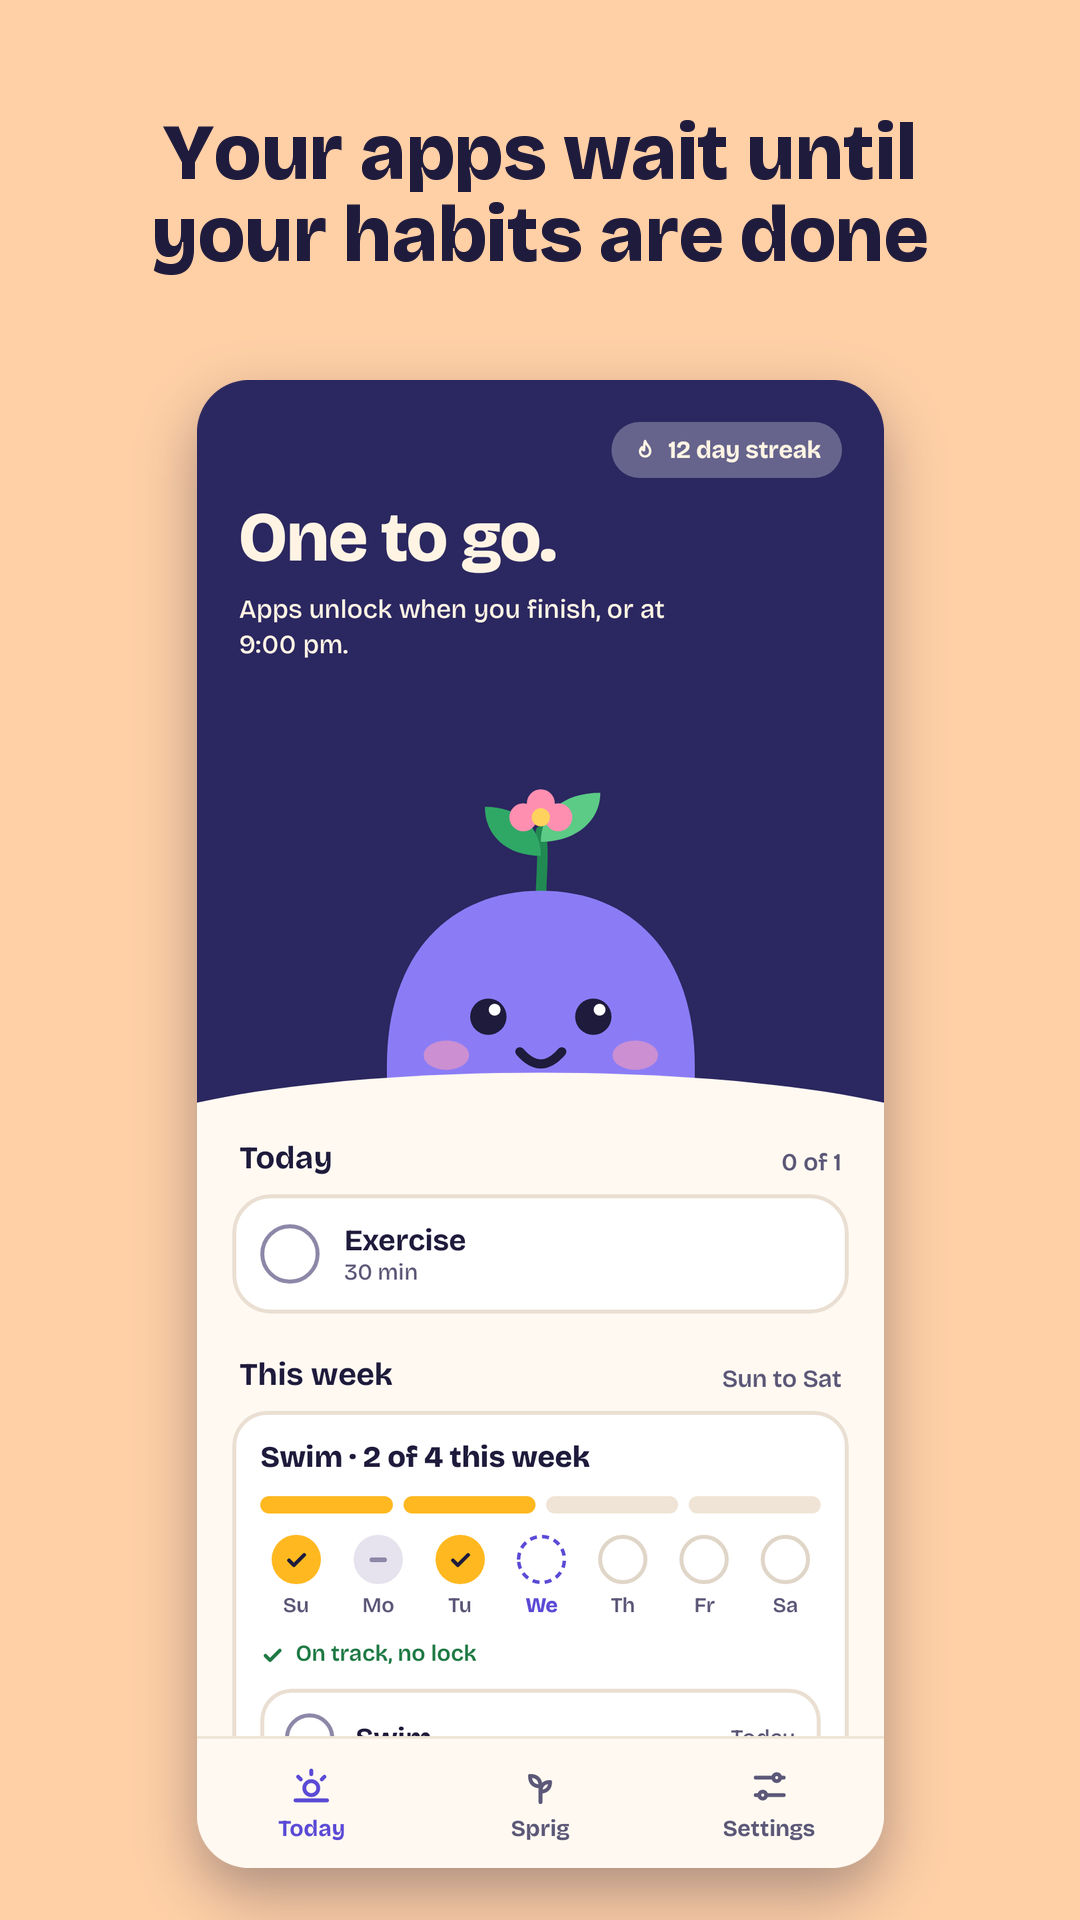
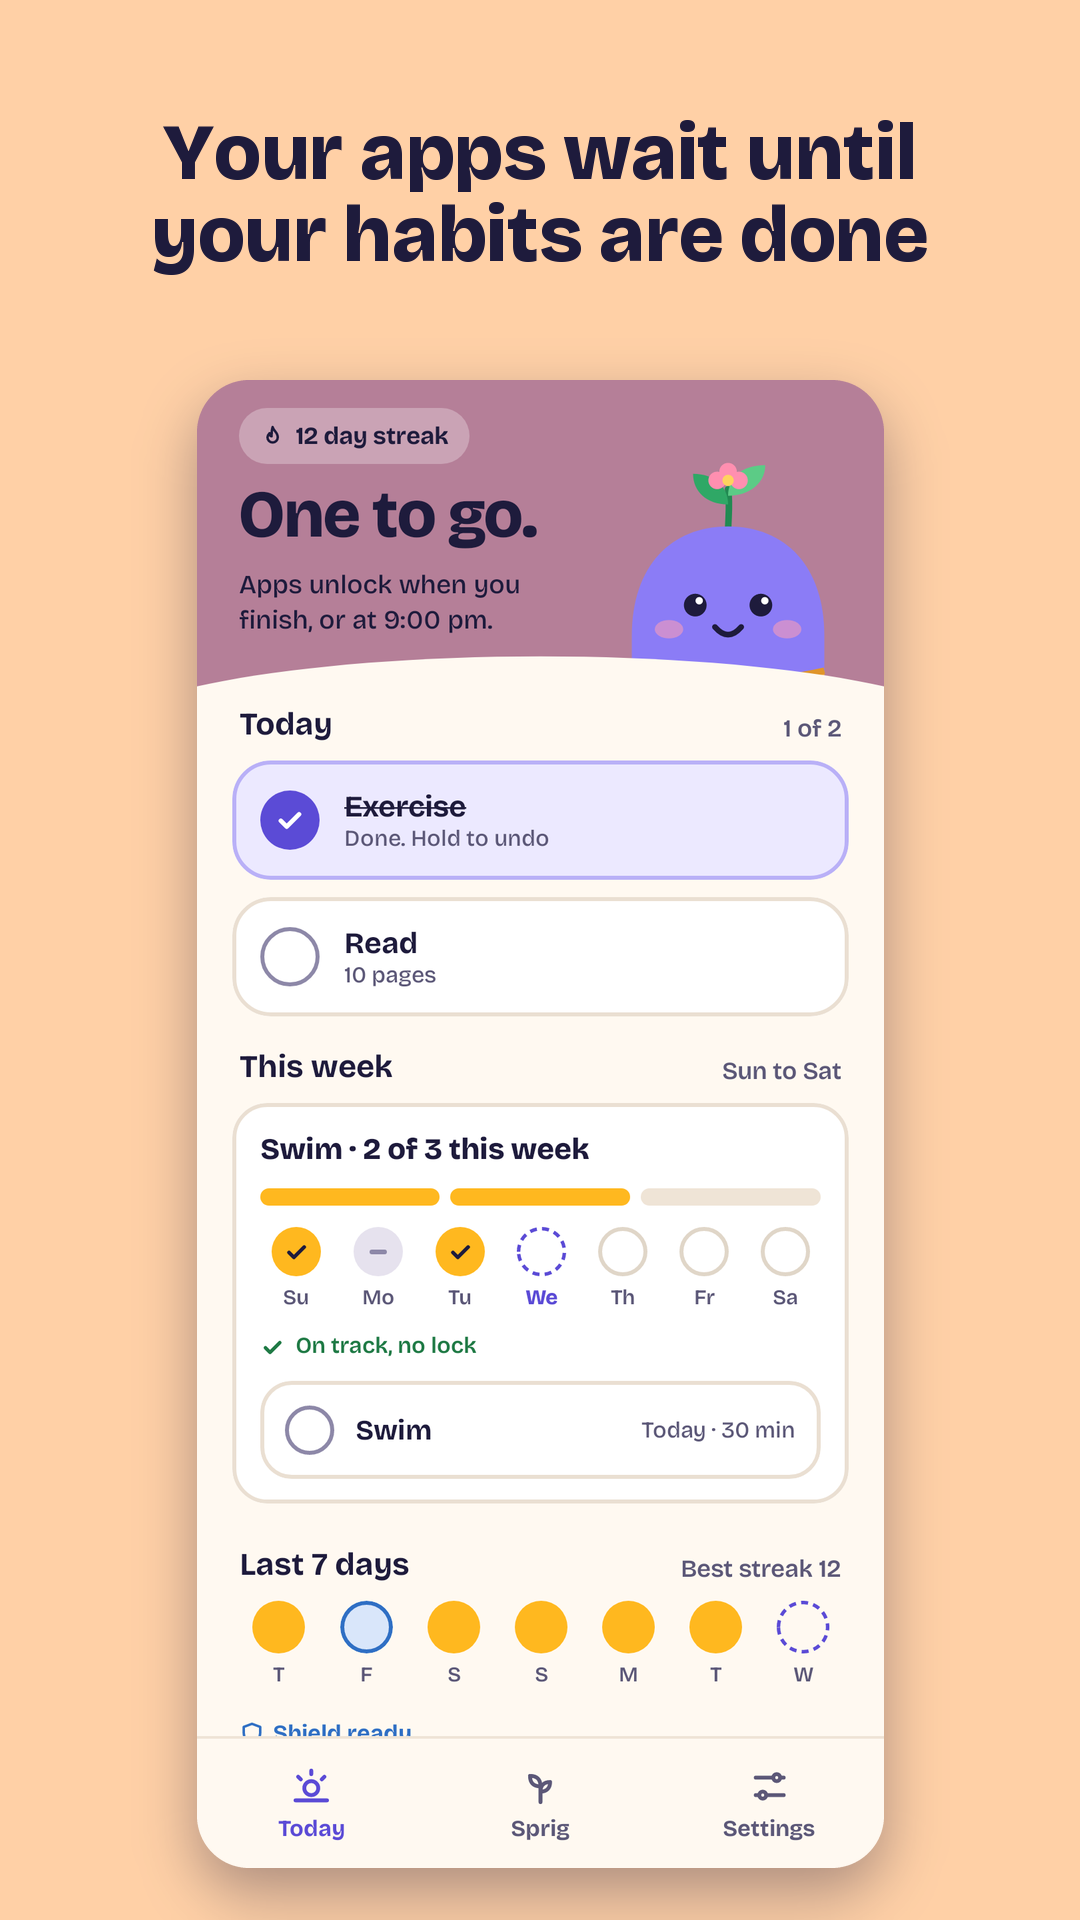
Play Store assets and signed bundle for 2.2: screenshots, release notes, listing, upload steps (#248)
* Play Store assets and signed bundle for 2.2: screenshots, release notes, listing, upload steps (#247)

Refreshes what Play needs for 2.2 (versionCode 8). 01-home and
03-weekly-lock are re-rendered from the real 2.2 composables (Home
changed in #218; the weekly lock's today row now carries the session's
amount). 07-recap gives way to onboarding's first step, which shows a
habit as every day or some days a week. Adds release-notes-2.2.md,
refreshes the listing draft (Your promises, one to six days a week,
no separate Weekly goals screen) and makes checklist section 7
"Upload 2.2", with sections 2 and 4 checked for 2.2. No app change.

Agent: dev

* Listing: ten daily promises plus up to three weekly, not ten in all (#247)

Review round 1 on PR #248: "up to ten promises ... up to three can be
weekly" read as ten in total. HabitLimits.MAX_HABITS (10 daily) and
WeeklyGoalRules.MAX_GOALS (3 weekly) are separate limits. Also drops a
stray blank line in "Do not claim".

Agent: dev

---------

Changed region(s): [[0.1833, 0.1875, 0.825, 0.9062]]

diff --git a/docs/PLAY-RELEASE-CHECKLIST.md b/docs/PLAY-RELEASE-CHECKLIST.md
@@ -43,6 +43,10 @@ and night lockdown add no permission, and both are enforced by the same foregrou
 lock screen. In the copy above, "lock window" now covers the night lockdown hours too, when the
 user has switched night lockdown on (it is off by default).
 
+**Checked for 2.2 (issue #247).** `git diff 00d9a59..62d4e51 -- app/src/main/AndroidManifest.xml` is
+empty: the per-habit cadence, the promise screen and Your promises add no permission and no new
+way to start the lock. The copy above still holds.
+
 ## 3. Demo video
 
 Play requires a video for the sensitive-permission declarations. Record it before submitting:
@@ -82,6 +86,12 @@ three screen names (`Weekly goals`, `Add weekly goal`, `Edit weekly goal` in `Sc
 which are App interactions, already declared. No event carries a goal's name, and no new SDK was
 added.
 
+**Checked for 2.2 (issue #247).** No new data type, event or property. `Screens.kt` lost two
+screen names (`Habits`, `Weekly goals`) and gained one (`Your promises`), which are App
+interactions, already declared. `habit_completed`, `habit_completion_undone` and `day_completed`
+carry the same properties as in 2.1; no event carries a habit's or goal's name, and no SDK was
+added.
+
 ## 5. Store listing and content
 
 - Target audience: high school through ~30s (phone addiction / habit follow-through; not parental control). Answer the **Families / target audience** questionnaire honestly; if
@@ -104,16 +114,18 @@ added.
   `POSTHOG_PROJECT_TOKEN` and is empty by default, which silently disables analytics).
 - Confirm the privacy policy URL resolves.
 
-## 7. Upload 2.1
+## 7. Upload 2.2
 
 The owner does this; it needs the upload keystore and Play Console access, neither of which is in
-the repo. The assets are prepared in `docs/play/` (issue #185; 2.0.1 was issue #161).
+the repo. The assets are prepared in `docs/play/` (issue #247; 2.1 was issue #185, 2.0.1 issue
+#161).
 
-1. Check `app/build.gradle.kts` says `versionName = "2.1"` and `versionCode = 7`, higher than
+1. Check `app/build.gradle.kts` says `versionName = "2.2"` and `versionCode = 8`, higher than
    any code already uploaded.
 2. Put `keystore.properties` (from `keystore.properties.example`) in the repository root, beside
-   `settings.gradle.kts` (the build reads `rootProject.file("keystore.properties")`), then build
-   the signed bundle: `./gradlew :app:bundleRelease`. The bundle is
+   `settings.gradle.kts` (the build reads `rootProject.file("keystore.properties")`), and the
+   machine's `.env` beside it (without it the bundle ships with analytics silently off, §6), then
+   build the signed bundle: `./gradlew :app:bundleRelease`. The bundle is
    `app/build/outputs/bundle/release/app-release.aab`.
    - **Check the bundle is signed before uploading:**
      `jarsigner -verify app/build/outputs/bundle/release/app-release.aab` must print
@@ -123,20 +135,23 @@ the repo. The assets are prepared in `docs/play/` (issue #185; 2.0.1 was issue #
    - A missing or misplaced `keystore.properties` builds an unsigned bundle **silently**. Gradle's
      "release signing is only partly configured" warning appears only when some keys are set,
      so no warning does not mean the bundle is signed; `jarsigner -verify` is the check.
-3. Walk the minified build on a device first (§6). For 2.1 that includes setting up a weekly
-   goal, the Home weekly card, the weekly lock screen, night lockdown, and the recap after a
-   Sprig evolution closing on Done and on Back (#188).
+3. Walk the minified build on a device first (§6). For 2.2 that includes onboarding with a habit
+   set to some days a week, the promise screen (onboarding, and Settings → add and edit), Home
+   with a weekly goal, Settings → Your promises with a habit switched to weekly and back, the
+   shutdown sliders, the lock screen, the weekly lock screen, night lockdown and the recap. Also
+   install 2.2 over a 2.1 install and check the habits, goals and streak survive (database 8 to
+   10).
 4. Play Console → Test and release → pick a track (internal testing first, then production) →
    Create new release → upload the `.aab`. Paste the release notes from
-   `docs/play/release-notes-2.1.md` into `<en-US>`.
+   `docs/play/release-notes-2.2.md` into `<en-US>`.
 5. Play Console → Grow users → Store presence → Main store listing:
    - Phone screenshots: delete the old ones and upload the eight in `docs/play/screenshots/`, in
-     file-name order. Two are new for 2.1 (`03-weekly-lock.png`, `04-night-lockdown.png`),
-     `01-home.png` now shows a weekly goal card, and the Welcome and Your habits screenshots are
-     gone.
+     file-name order. For 2.2, `01-home.png` (the roomier Home) and `03-weekly-lock.png` (the
+     session's amount) are re-rendered, and `07-every-day-or-weekly.png` (onboarding's first
+     step) replaces `07-recap.png`. The other five are unchanged since 2.1.
    - Short and full description: paste from `docs/growth/PLAY-LISTING.md` once you approve it.
    - App icon (`docs/play/icon-512.png`) and feature graphic (`docs/play/feature-graphic.png`)
      are unchanged since 2.0.1; leave them unless the listing shows older ones.
 6. The permission declarations (§2), the demo video (§3) and the data safety form (§4) need no
-   change for 2.1: no new permission and no new data type.
+   change for 2.2: no new permission and no new data type.
 7. Save, send the changes for review, and roll the release out.

diff --git a/docs/growth/PLAY-LISTING.md b/docs/growth/PLAY-LISTING.md
@@ -11,6 +11,10 @@ The 2.1 lines were checked against `main` at c34993b on 2026-11-23: `WeeklyGoalR
 `WeeklyGoalSetup.kt` (one to seven days a week, three goals, Sunday to Saturday, the day you
 can't skip), `RecapLayout.kt` (a missed must-do day), `NightLock.kt` and `Rules.kt` (night
 lockdown, off by default, 1 to 12 hours) and `KeptDatabase.kt` (the "Sleep by 11" cleanup).
+Refreshed 2026-11-26 for 2.2 (issue #247); the 2.2 lines were checked against `main` at 62d4e51:
+`Promise.kt` (the one-sentence promise, every day or 1 to 6 days a week, an amount per
+session), `PromiseList.kt` and `PromisesScreen.kt` (Settings → Your promises, switching between
+every day and weekly), `Rules.kt` and `WeeklyGoalRules.kt` (ten daily habits, plus up to three weekly).
 Edit freely; if a feature changes, update this file in the same PR.
 
 ## App name (max 30)
@@ -27,8 +31,9 @@ Willpower loses to an infinite feed. KEPT changes the deal: your phone stays loc
 the promises you made to yourself today. Habits first. Phone after.
 
 HOW IT WORKS
-• Pick one to ten daily habits: read, work out, study, practise guitar, whatever matters to you.
-  Start from a quick pick or write your own.
+• Make up to ten daily promises to yourself: read, work out, study, practise guitar, whatever matters
+  to you. Each one is a sentence, like "I will exercise for 30 minutes, 4 days a week." Pick
+  from the lists or write your own.
 • Choose when the lock runs. From then until your habits are done, every app is locked except the
   essentials (phone, messages, maps, camera, clock, contacts, settings) and the few exceptions
   you choose.
@@ -38,7 +43,10 @@ HOW IT WORKS
   is missed.
 
 WEEKLY GOALS, FOR WHAT ISN'T DAILY
-• Add up to three weekly goals: pick an activity and how many days a week, from one to seven.
+• Any habit can be every day or some days a week, from one to six, with an amount per session.
+  Up to three more can be weekly, on top of the ten daily ones.
+• Change your mind in Settings → Your promises, one list for all of them: switch a habit
+  between every day and weekly, and this week's progress comes along.
 • The week runs Sunday to Saturday. Log a session on any day; a card on Home shows the week.
 • Your phone locks for a weekly goal only on the day you can no longer skip. Log that day's
   session and your apps open.
@@ -82,20 +90,21 @@ Privacy policy: https://anujabbi.github.io/kept-site/privacy-policy.html
 ## Graphics
 
 All in `docs/play/`, rendered from the real Daybreak screens on `main` (issue #161; the
-screenshots were refreshed for 2.1 in issue #185, framed with `scripts/play-screenshots.py`).
+screenshots were refreshed for 2.1 in issue #185 and for 2.2 in issue #247, framed with `scripts/play-screenshots.py`).
 
 - **App icon:** `docs/play/icon-512.png` (512 × 512, merged in #156).
 - **Feature graphic:** `docs/play/feature-graphic.png` (1024 × 500, no alpha): the dawn sky, Sprig
   and "KEPT / Habits first. Phone after.", with nothing important near the edges.
 - **Phone screenshots:** `docs/play/screenshots/`, eight 1080 × 1920 PNGs (24-bit, no alpha), in
   this order. Captions are drafts; change them in the PR or ask for a re-render.
-  1. `01-home.png` — "Your apps wait until your habits are done" (Home with a weekly goal card)
+  1. `01-home.png` — "Your apps wait until your habits are done" (Home with a weekly goal card, 2.2)
   2. `02-lock-screen.png` — "Tick habits right on the lock screen"
-  3. `03-weekly-lock.png` — "Weekly goals lock only when you can't skip"
+  3. `03-weekly-lock.png` — "Weekly goals lock only when you can't skip" (the session's amount, 2.2)
   4. `04-night-lockdown.png` — "Apps lock overnight, at the times you set"
   5. `05-break-the-lock.png` — "Breaking the lock costs something"
   6. `06-promise-kept.png` — "Keep your promise, grow Sprig"
-  7. `07-recap.png` — "A recap of every day, kept or not"
+  7. `07-every-day-or-weekly.png` — "Every day, or some days a week" (onboarding's first step, 2.2;
+     replaces `07-recap.png`)
   8. `08-sprig-collection.png` — "Seven forms, from Sprig to Celestial"
 
 ## Other listing fields
@@ -104,11 +113,15 @@ screenshots were refreshed for 2.1 in issue #185, framed with `scripts/play-scre
 - Ads: none. App access: no login required.
 - Target audience: 13+ (see `PLAY-RELEASE-CHECKLIST.md` §5).
 
-## Do not claim (not in the app on 2026-11-23)
+## Do not claim (not in the app on 2026-11-26)
 
+- A separate "Weekly goals" or "Your habits" screen — since 2.2 both live in one list, Settings
+  → Your promises.
+- Seven days a week for a new weekly goal — new ones go from one to six (seven is "every day");
+  a goal saved at seven before 2.2 keeps it.
 - A "Sleep by 11" habit or bedtime habit — removed in #167; night lockdown is the overnight lock.
 - That a weekly goal locks the phone every day — it locks only on a day that can't be skipped
-  (a seven-days-a-week goal is the one that locks daily).
+  (a seven-days-a-week goal from before 2.2 is the one that locks daily).
 - That night lockdown is on by default, or that it counts toward the streak — it is optional and
   the streak ignores it.
 - Better sleep, less screen time or any other result — say what the app does.

diff --git a/docs/play/release-notes-2.2.md b/docs/play/release-notes-2.2.md
@@ -1,0 +1,14 @@
+# What's new in 2.2 (en-US)
+
+Paste the block below into Play Console → Release → Release notes → `<en-US>`. It is under
+500 characters; check the count again after any edit.
+
+```
+New: each habit can be every day or some days a week, with an amount per session, like "exercise for 30 minutes, 4 days a week". You set it in one sentence.
+
+New: Your promises in Settings, one list for all your habits. Tap one to change it, even switch it between every day and weekly; its progress comes along.
+
+Home is roomier: Sprig sits beside the headline and your week scrolls below.
+
+Shutdown time is now set with a slider.
+```
